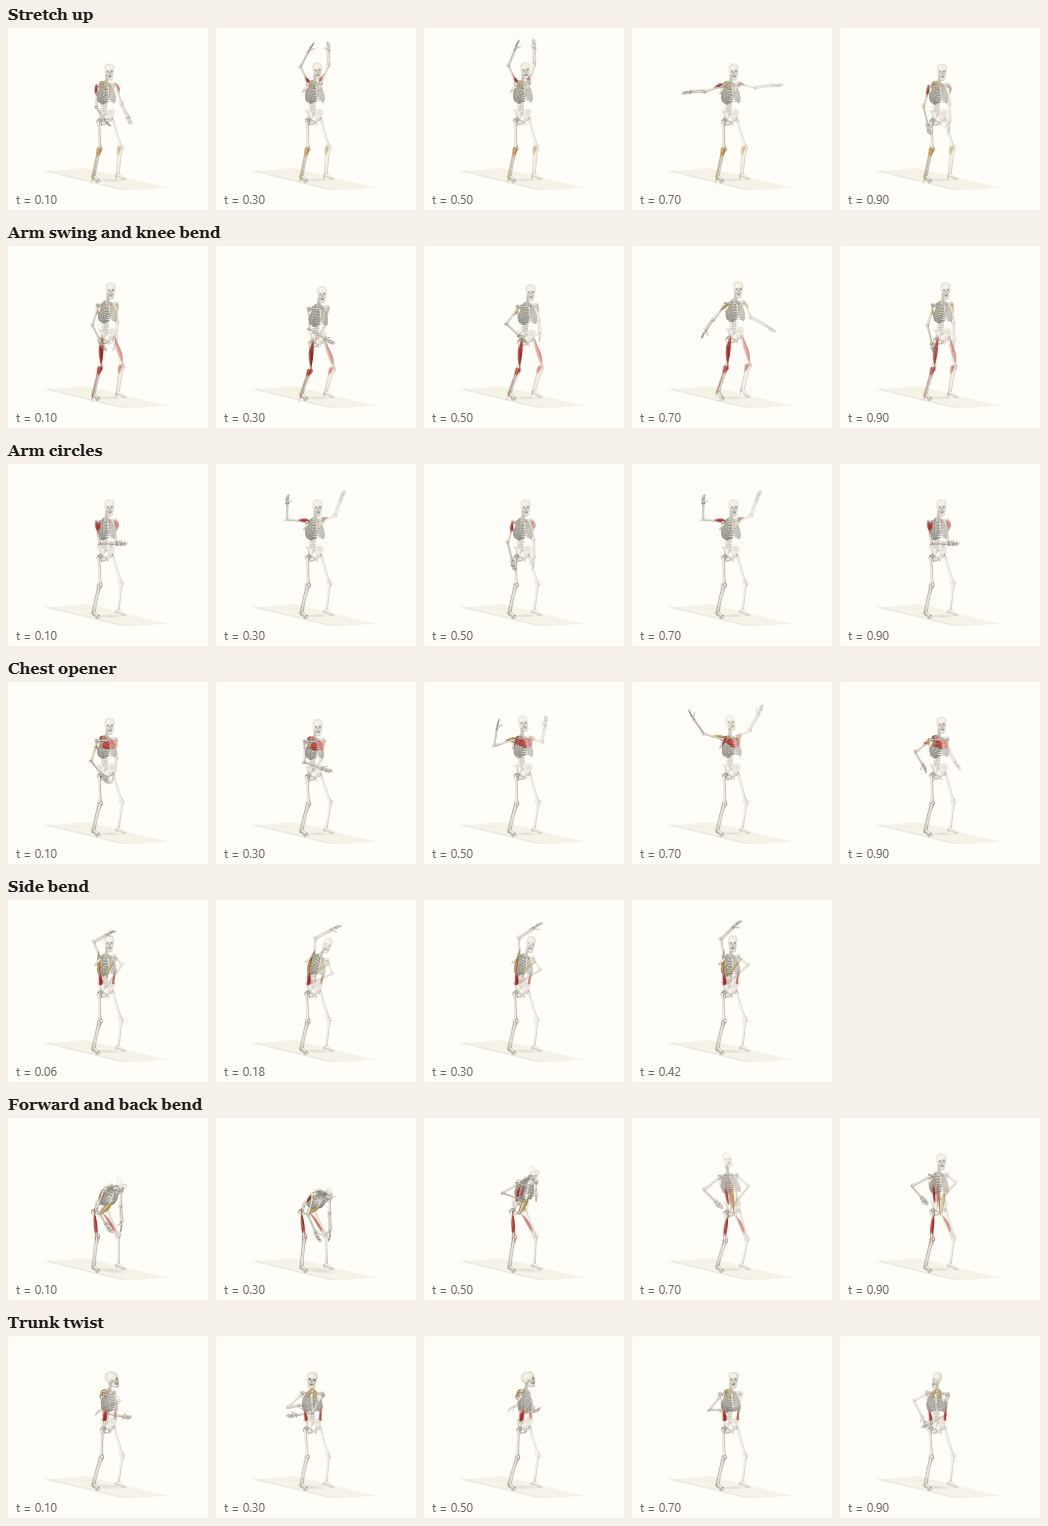
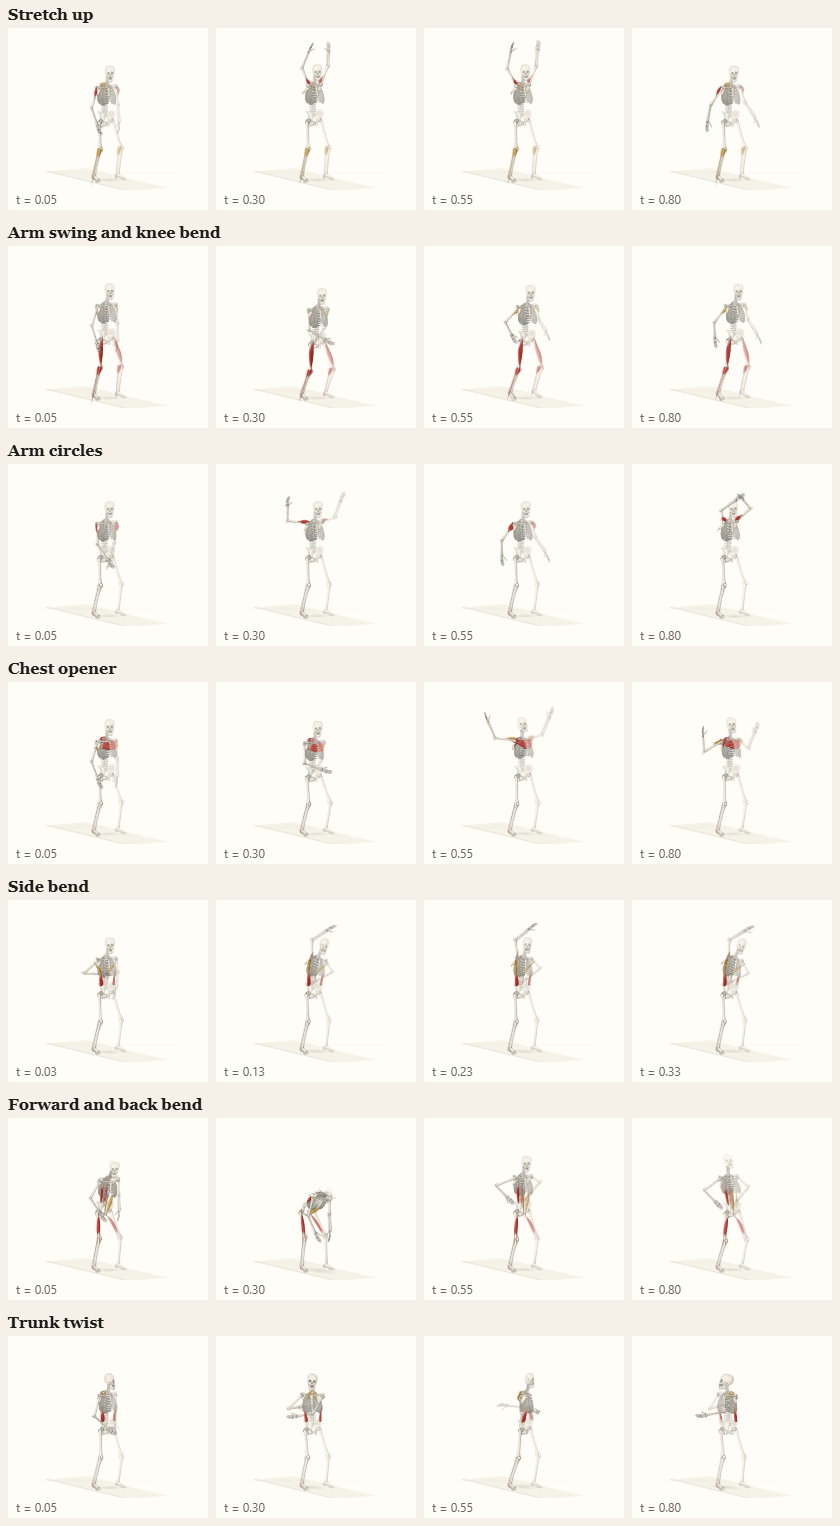
Poses to the cues: Baduanjin long arms, Pallof hands at the chest, side plank reach-through arm up
Items 5 and 12 of the release QA.
- Holding up the sky: arms straight overhead (elbows ~10 deg), the interlaced hands over the crown, palms pressing
  up. Two hands hold the feet: the long arms rise forwards and up; they come down in front and round to the back;
  the hands slide down the backs of the legs to the lower calves (new trace / traceAt channels) as you fold; you rise
  leading with the arms, long and in line with the trunk (no folding across the face or chest).
- QA reach is now measured on the final arm solve (after the scapular rotation), which had hidden bent "straight"
  arms: Morning Taiso overhead and arc targets lengthened to match (arms straight overhead, reach <= 1).
- Pallof press / overhead / half-kneeling hold: hands pressed straight out from the chest (horizontal, midline).
- Side plank reach-through: the top arm starts straight up.
- All 83 clips pass QA; filmstrips in docs/anim-v2/v1.2 refreshed.

diff --git a/js/anim/v2/clips/baduanjin.js b/js/anim/v2/clips/baduanjin.js
@@ -40,7 +40,8 @@ const baduanjin_hold_up_sky = bdj('Holding up the sky', {
   keys: {
     a: {}, belly: { ...at(20, -38, -13, { palm: 170, fingers: 60 }) },
     chest: { ...at(18, -8, -13, { palm: 170, fingers: 60 }), head: -10 },
-    up: { ...at(2, 52, -10, { palm: 0, fingers: 60, wrist: 70 }), rootY: 88, scapElev: .6, head: -2, thoracic: -2 },
+    // a full stretch: arms straight overhead, the interlaced hands meeting over the crown, palms pressing up
+    up: { ...at(-1.5, 56.6, -13.4, { palm: 0, fingers: 60, wrist: 75 }), rootY: 88.5, head: -2, thoracic: -2 },
     ...SIDES,
   },
   timeline: [ph('a', 'belly', 2, 'in'), ph('belly', 'up', 3.4, 'in', ['chest']), pause('up', 1.4, 1),
@@ -112,22 +113,25 @@ const baduanjin_sway_head_tail = bdj('Swaying the head and tail', {
   timeline: [ph('c', 'r', 2.4, 'in'), ph('r', 'l', 4.2, 'out', ['d']), ph('l', 'c', 2.4, 'in')],
 });
 
-// 6. Two hands hold the feet (两手攀足固肾腰): arms up, palms down to the chest, hands to the back under the armpits,
-// slide them down the back and legs as you fold towards the feet with soft knees, then rise slowly leading with the
-// arms (Kitaeru softens the knees; the standard keeps them straight).
-const FOLD = pitch => { const a = (pitch + 30) * Math.PI / 180; return { pitch, lumbar: 8, thoracic: 6, head: 8, rootY: 83,
-  handX: +(1.9 + 50 * Math.sin(a)).toFixed(1), handY: +(3.3 - 50 * Math.cos(a)).toFixed(1), handZ: 12, palm: 160, fingers: 5 }; };
+// 6. Two hands hold the feet (两手攀足固肾腰): the long arms rise forwards and up; they come down in front and the hands
+// go round to the back; they slide down the backs of the legs (trace) as you fold towards the feet with soft knees; then
+// rise slowly, leading with the arms, which stay long and in line with the trunk (Kitaeru softens the knees; the
+// standard keeps them straight).
+const LONG_UP = arm(172, 10, 57.3, { palm: 0, fingers: 5 });        // straight overhead (in the trunk's frame)
 const baduanjin_touch_toes = bdj('Two hands hold the feet', {
   counts: 1, trail: ['palmR'],
   keys: {
-    a: {}, up: { ...arm(170, 10, 52, { palm: 0 }), rootY: 87 },
-    chest: { ...at(18, -2, -8, { palm: 175, wrist: 10 }) },
-    armpit: { ...at(-4, -18, 0, { palm: 90, wrist: 30 }), elbowOut: .4 },
-    back: { pitch: 30, rootY: 85, ...at(-10, -44, 2, { palm: 90, wrist: 20 }), lumbar: 4 },   // hands slide down the back of the legs
-    fold: FOLD(78), front: { ...FOLD(60), handX: 45, handY: 16 },
+    a: {}, fwd: { ...arm(92, 8, 53.5, { palm: 175, fingers: 5 }) }, up: { ...LONG_UP, rootY: 87 },
+    side: { ...arm(30, 70, 50, { palm: 90 }) },                                        // down past the sides
+    waist: { ...arm(30, 70, 50, { palm: 90 }), trace: 1, traceAt: 0, pitch: 4 },       // hands on the back of the hips
+    slide: { pitch: 50, rootY: 84, lumbar: 5, trace: 1, traceAt: .2 },                  // down the backs of the thighs
+    fold: { pitch: 88, lumbar: 12, thoracic: 10, head: 8, rootY: 80, trace: 1, traceAt: .84 },   // down to the lower calves
+    feet: { pitch: 76, lumbar: 8, thoracic: 6, head: 8, rootY: 83, ...LONG_UP },       // the arms long past the head, at the feet
+    lead: { pitch: 45, lumbar: 5, thoracic: 3, head: 4, rootY: 85, ...LONG_UP },       // rising, the arms leading
   },
-  timeline: [ph('a', 'up', 2.4, 'in'), ph('up', 'chest', 1.8, 'out'), ph('chest', 'armpit', 1.4, 'in'),
-    ph('armpit', 'fold', 3.2, 'out', ['back']), pause('fold', .8, 0), ph('fold', 'up', 3.2, 'in', ['front']), ph('up', 'a', 2, 'out')],
+  timeline: [ph('a', 'up', 2.6, 'in', ['fwd']), pause('up', .6, 1), ph('up', 'side', 2.4, 'out', ['fwd']), ph('side', 'waist', 1, 'in'),
+    ph('waist', 'fold', 3.2, 'out', ['slide']), pause('fold', .8, 0), ph('fold', 'feet', 1.2, 'in'),
+    ph('feet', 'up', 3.2, 'in', ['lead']), ph('up', 'a', 2.4, 'out', ['fwd'])],
 });
 
 // 7. Punching with angry eyes (攒拳怒目增气力): in a horse stance with the fists at the waist, punch slowly forward,

diff --git a/js/anim/v2/clips/rot.js b/js/anim/v2/clips/rot.js
@@ -15,12 +15,14 @@ const bandPost = (x, y, z) => [rod([[x, 0, z], [x, Math.max(160, y + 25), z]], 2
 
 // Pallof press: side-on to a band at chest height (anchored on the left); press straight out, pause 2 s, return
 // without turning. Sides alternate (the band moves to the other side).
+// hands pressed straight out from the chest (horizontal, meeting at the midline; the T4 frame leans forward ~21°)
+const OUT = { handX: 52, handY: 12, handZ: 1.5 };
 const PALLOF_FEET = { R: [-6, 15, 8], L: [-6, -15, 8] };
 function pallof(f) {
   const c = stand(PALLOF_FEET, {
     cam: { az: 58, el: 9 }, swap: true, still: .2, trail: ['palmR'], _by: 122,
     base: { rootY: 87, pitch: 3, handShape: 2, palm: 90, wrist: 0, handX: 12, handY: -8, handZ: 3 },
-    keys: { chest: {}, out: { handX: 46, scapProt: 6, twist: 1.5 } },
+    keys: { chest: {}, out: { ...OUT, scapProt: 6, twist: 1.5 } },
     props: c => bandPost(4, c._by, -110),
   });
   return Object.assign(c, f(c));
@@ -34,7 +36,7 @@ const pallof_press = pallof(c => ({
 }));
 const pallof_press_overhead = pallof(c => ({
   name: 'Pallof press with overhead reach',
-  keys: { chest: {}, out: { handX: 46, scapProt: 6, twist: 1.5 }, rise: { handX: 34, handY: 30, scapProt: 3, scapUp: 10, twist: 1 },
+  keys: { chest: {}, out: { ...OUT, scapProt: 6, twist: 1.5 }, rise: { handX: 34, handY: 30, scapProt: 3, scapUp: 10, twist: 1 },
     up: { handX: 9, handY: 51, handZ: 4, scapUp: 22, scapElev: 1.5, twist: 1, thoracic: -2 } },
   timeline: [{ hold: 'chest', dur: .4, b: .8 }, { from: 'chest', to: 'out', dur: 1, r1: .25, r2: .4, breath: 'out' },
     { from: 'out', via: ['rise'], to: 'up', dur: 1.3, r1: .3, r2: .35, breath: 'in' }, { hold: 'up', dur: .4, b: 1 },
@@ -51,7 +53,7 @@ const half_kneeling_pallof_hold = (() => {
     pin: { pt: S => S.pt.kneeL, at: [-4, 5.2] },
     legs: { R: { mode: 'ik', foot: 'flat', toeOut: 6, ankle: () => [c._fx, 7.5, 13], pole: () => [1, 0, .15] } },
     arms: { both: { mode: 'ik', grip: 'free', pole: [-.3, -1, .5] } },
-    base: { pitch: 0, hipFlexL: -4, kneeL: 92, ankleL: 58, hipAbdL: 2, handShape: 2, palm: 90, wrist: 0, handX: 46, handY: -8, handZ: 3, scapProt: 6 },
+    base: { pitch: 0, hipFlexL: -4, kneeL: 92, ankleL: 58, hipAbdL: 2, handShape: 2, palm: 90, wrist: 0, ...OUT, scapProt: 6 },
     keys: { a: { twist: 1 }, b: { twist: 1.6, thoracic: -1, head: -1 } },
     timeline: hold('a', 'b', 5),
     props: c => bandPost(-4, c._by, -95),
@@ -270,7 +272,7 @@ const standing_windmill = stand({ R: [-4, 30, 4], L: [-4, -30, 40] }, {
 const side_plank_reach_through = sidePlank(() => ({
   name: 'Side plank reach-through', still: .15, trail: ['palmR'],
   arms: { R: { mode: 'ik', grip: 'free', pole: [-.3, -1, .6] } },
-  base: { yaw: -90, cervical: 2, head: 0, fingersL: 25, palmR: 0, fingersR: 10, wristR: 0, handXR: 0, handYR: 4, handZR: 55 },
+  base: { yaw: -90, cervical: 2, head: 0, fingersL: 25, palmR: 0, fingersR: 10, wristR: 0, handXR: 2, handYR: 3, handZR: 68 },   // top arm straight up (the glenoid sits 15.5 out in the T4 frame)
   keys: {
     open: { bodyAngle: 20 },
     thread: { bodyAngle: 20, twist: 30, handXR: 6, handYR: -6, handZR: -20, palmR: 90, headYaw: 24, head: 6, scapProtR: 12 },

diff --git a/js/anim/v2/clips/taiso.js b/js/anim/v2/clips/taiso.js
@@ -19,8 +19,8 @@ const heels = up => ({ footPitchR: -up, footPitchL: -up, onBalls: 1 });   // hee
 const H = (x, y, z, extra = {}) => ({ handX: x, handY: y, handZ: z, ...extra });
 // a straight arm (r cm to the wrist) raised el degrees from hanging (90 = horizontal, 180 = overhead), in a plane turned
 // az degrees from straight ahead (0) to straight out to the side (90), as a T4-frame target for a standing trunk
-const ARM = (el, az, extra = {}, r = 52.8) => arm(el, az, r, extra);
-const UP = ARM(172, 12, { palm: 0, fingers: 5 }, 54.5);          // arms straight overhead, palms in
+const ARM = (el, az, extra = {}, r = 52.9) => arm(el, az, r, extra);
+const UP = ARM(172, 12, { palm: 0, fingers: 5 }, 56.6);          // arms straight overhead, palms in
 const FRONT = ARM(90, 8, { palm: 0, fingers: 10 });          // arms forward at shoulder height
 const SIDE = ARM(90, 88, { palm: 90, fingers: 10 });         // arms out to the sides, palms down
 // the arcs between them (targets in straight lines would pass the head with bent elbows)
